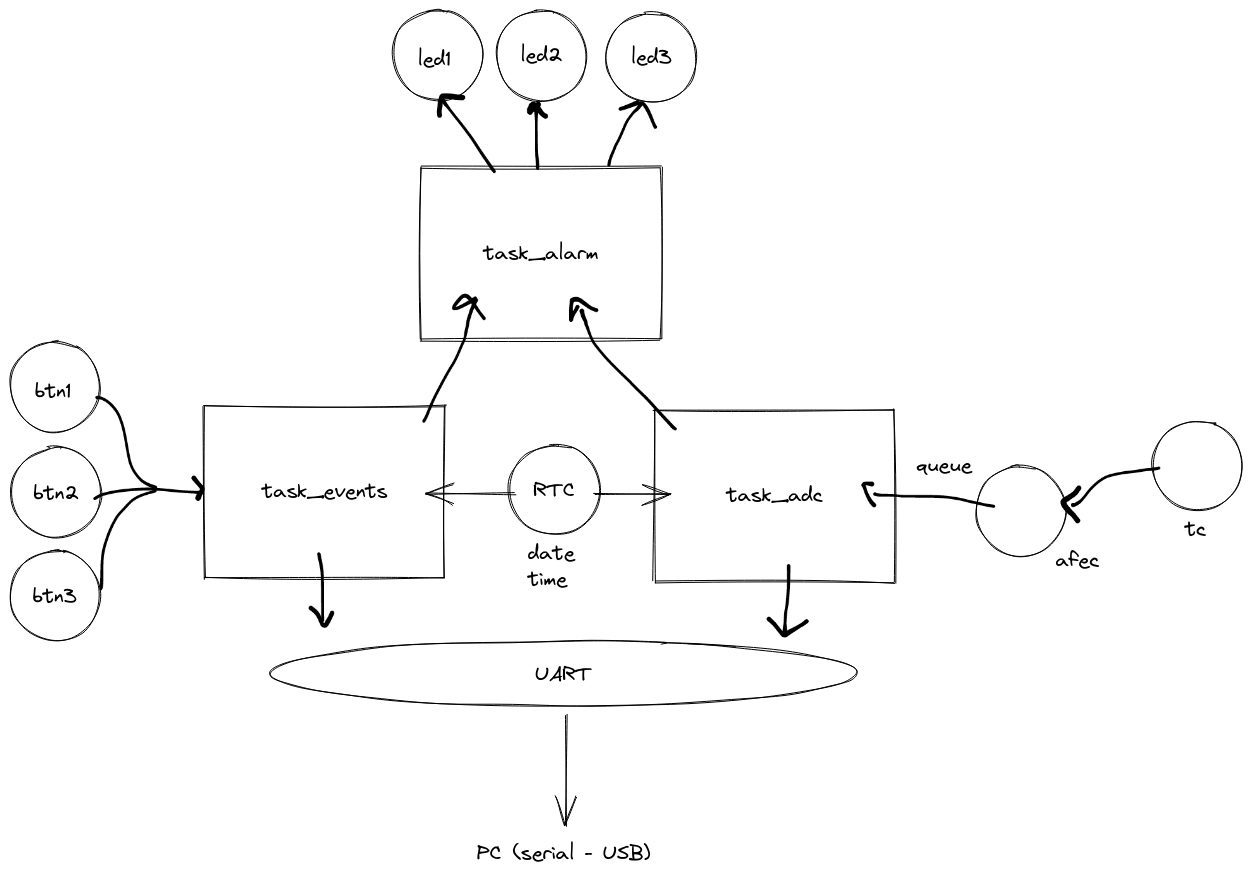
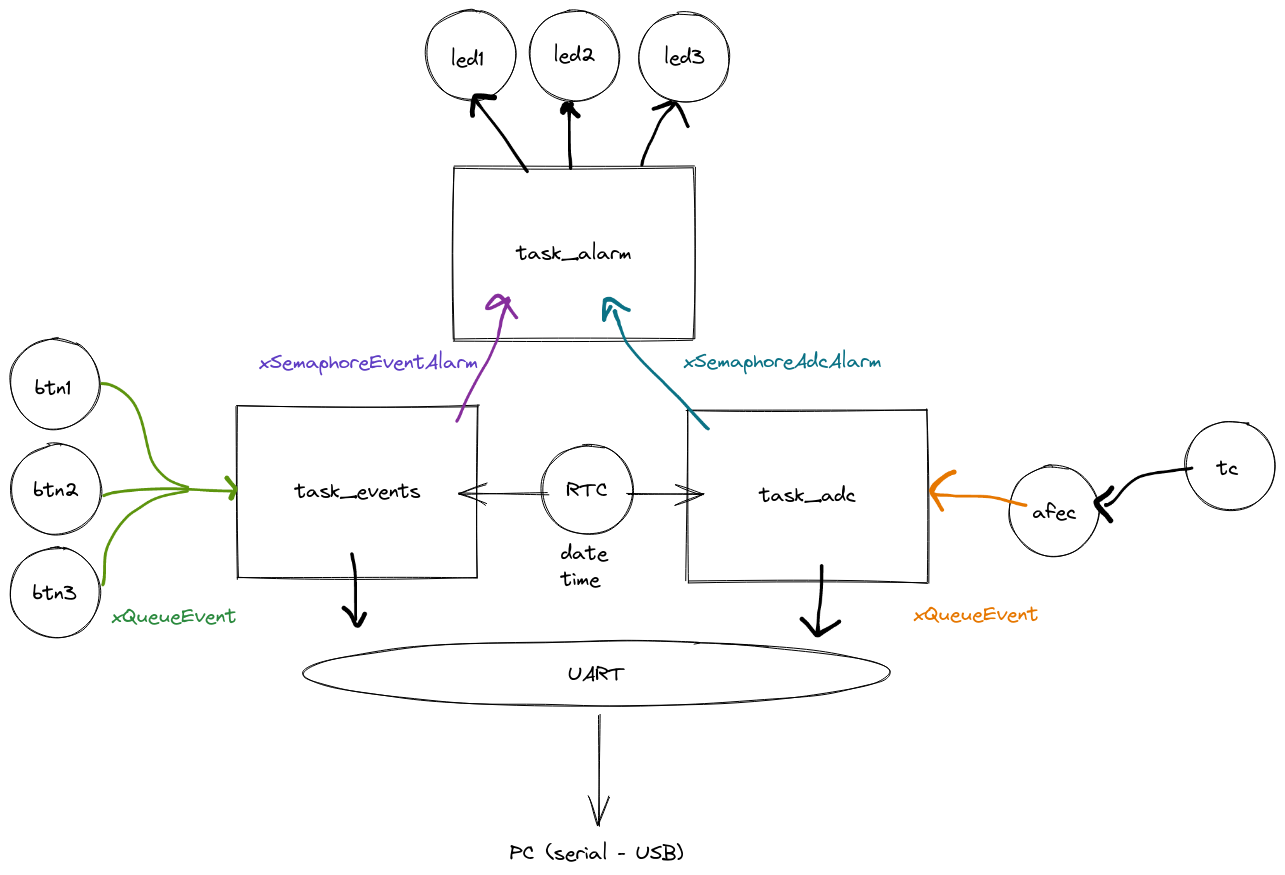
melhorias

diff --git a/README.md b/README.md
@@ -1,12 +1,12 @@
 # 22a - Avaliação Prática 2
 
-Vamos criar um protótipo de um dataloger, um sistema embarcado coleta periodicamente valores e eventos do mundo real, formata e envia para um dispositivo externo. O envio da informação será feito pela UART. O dataloger também verificar algumas condicoes de alarme  
+Vamos criar um protótipo de um dataloger, um sistema embarcado coleta periodicamente valores e eventos do mundo real, formata e envia para um dispositivo externo. O envio da informação será feito pela UART. O dataloger também verificar algumas condições de alarme  
 
 ## Visão geral do firmware
 
 ![](diagrama.png)
 
-O firmware vai ser composto por três tasks: `task_adc`, `task_events` e `task_alarm` além de duas filas: `xQueueEvent` e `xQueueADC` e dois semáforos: `xSemaphoreEventAlarm` e `xSemaphoreAfecAlarm`. A ideia é que a cada evento de botão ou a cada novo valor do ADC um log formatado seja enviado pela UART (`printf`) e uma verificacão das condicoes de alarme checadas, se um alarme for detectado a `task_alarm` deve ser iniciada. O log que será enviado pela UART deve possuir um timestamp que indicará quando o dado foi lido pelo sistema embarcado (DIA:MES:ANO HORA:MINUTO:SEGUNDO).
+O firmware vai ser composto por três tasks: `task_adc`, `task_events` e `task_alarm` além de duas filas: `xQueueEvent` e `xQueueADC` e dois semáforos: `xSemaphoreEventAlarm` e `xSemaphoreAfecAlarm`. A ideia é que a cada evento de botão ou a cada novo valor do ADC um log formatado seja enviado pela UART (`printf`) e uma verificação das condições de alarme checadas, se um alarme for detectado a `task_alarm` deve ser iniciada. O log que será enviado pela UART deve possuir um timestamp que indicará quando o dado foi lido pelo sistema embarcado (DIA:MES:ANO HORA:MINUTO:SEGUNDO).
 
 A seguir mais detalhes de cada uma das tarefa:
 
@@ -17,9 +17,9 @@ A seguir mais detalhes de cada uma das tarefa:
 | RTC                   | Fornecer as informacões do TimeStamp                 |
 | TC                    | Gerar o 1hz do AFEC                                  |
 | AFEC                  | Leitura analógica                                    |
-|------------------------|------------------------------------------------------|
+|-----------------------|------------------------------------------------------|
 | `xQueueAFEC`          | Recebimento do valor do ADC                          |
-| `xSemaphoreAfecAlarm` | Liberacao da `task_alarm` devido a condição de alarm |
+| `xSemaphoreAfecAlarm` | Liberação da `task_alarm` devido a condição de alarm |
 
 A `task_adc` vai ser responsável por coletar dados de uma entrada analógica via AFEC (usando algum TC para a base de tempo), os dados devem ser enviados do *callback* do AFEC via a fila `xQueueADC` a uma taxa de uma amostra por segundo (1hz). A cada novo dado do AFEC a condicao de alarme deve ser verificada.
 
@@ -59,13 +59,13 @@ Caso a condicao de alarme seja atingida liberar o semáforo `xSemaphoreEventAlar
 |------------------------|--------------------------------------------|
 | PIO                    | Acionamento dos LEDs                       |
 |------------------------|--------------------------------------------|
-| `xSemaphoreAfecAlarm`  | Indica alarme ativado deviado a task_afec  |
-| `xSemaphoreEventAlarm` | Indica alarme ativado deviado a task_event |
+| `xSemaphoreAfecAlarm`  | Indica alarme ativado devido a task_afec  |
+| `xSemaphoreEventAlarm` | Indica alarme ativado devido a task_event |
 
 Responsável por gerenciar cada um dos tipos de alarme diferente: `afec` e `event`. A cada ativacão do alarme a task deve emitir um Log pela seria, O alarme vai ser um simples pisca LED, para cada um dos alarmes vamos atribuir um LED diferentes da placa OLED: 
 
-- `AFEC`: LED1
-- `EVENT`: LED2
+- `EVENT`: LED1
+- `AFEC`: LED2
 
 Os alarmes são ativos pelos semáforos `xSemaphoreAfecAlarm` e `xSemaphoreEventAlarm`. Uma vez ativado o alarme o mesmo deve ficar ativo até a placa reiniciar.
 
@@ -75,9 +75,7 @@ Ao ativar um alarme, a `task_alarm` deve emitir um log pela serial no formato de
 
 ### Exemplo de log
 
-A seguir um exemplo de log, no caso conseguimos verificar a leitura do AFEC e no segundo 04 o botão 1 foi pressionado,
-e depois solto no segundo 05. No segundo 06 o AFEC atinge um valor maior que o limite e fica assim por mais 10 segundos, ativando
-o alarme no segundo 14.
+A seguir um exemplo de log, no caso conseguimos verificar a leitura do AFEC e no segundo 04 o botão 1 foi pressionado, e depois solto no segundo 05. No segundo 06 o AFEC atinge um valor maior que o limite e fica assim por mais 10 segundos, ativando o alarme no segundo 14.
 
 ``` 
  [AFEC ] 19:03:2018 15:45:01 1220
@@ -113,13 +111,27 @@ A seguir um resumo do que deve ser implementando:
     - alarm se dois botões pressionados ao mesmo tempo
         - libera semáforo `xSemaphoreEventAlarm`
 - `task_alarm`
-    - log:  `[ALARM] DD:MM:YYYY HH:MM:SS $ALARM` 
-    - Pisca led 1 dado se `xSemaphoreAfecAlarm`
-    - Pisca led 2 dado se `xSemaphoreEventAlarm`
+    - verifica dois semáforos: `xSemaphoreEventAlarm` e `xSemaphoreAfecAlarm`
+    - recebido um semáforo gear o log:  `[ALARM] DD:MM:YYYY HH:MM:SS $ALARM` 
+    - Pisca led 1 dado se alarm AFEC ativo `xSemaphoreAfecAlarm`
+    - Pisca led 2 dado se alarm EVENT ativo
 
 Não devem ser utilizadas variáveis globais além das filas e semáforos.
 
 ## Ganhando conceitos
 
-- (meio conceito) desligar o alarme do AFEC se ele passar 10 segundos em um valor menor que 1000
-- (meio conceito) Exibir no OLED os Logs (um por liinha)
+Você pode fazer qualquer combinacão dos itens a seguir para melhorar sua nota, cada item possui um acréscimo no conceito:
+
+- (meio conceito) Exibir no OLED um logs simplificado (um por linha):
+    ```  
+    mm:ss AFEC
+    mm:ss Event
+    ```
+- (meio conceito) Quanto ativado o LED devido a um alarme (event e afec), pisca usando os TCs
+- (meio conceito) Adicionar mais um botão externo a placa (usando protoboard)
+- (meio conceito) Desligar o alarme do AFEC se ele passar 10 segundos em um valor menor que 1000
+- (meio conceito) No lugar do TC do AFEC use um RTT
+- (um conceito) Adicionar mais um AFEC (nova task)
+- (um conceito) Desligar o alarme por um comando da UART
+    - receber o valor `a` desliga o alarme do AFEC
+    - receber o valor `e` desliga o alarme de EVENT
